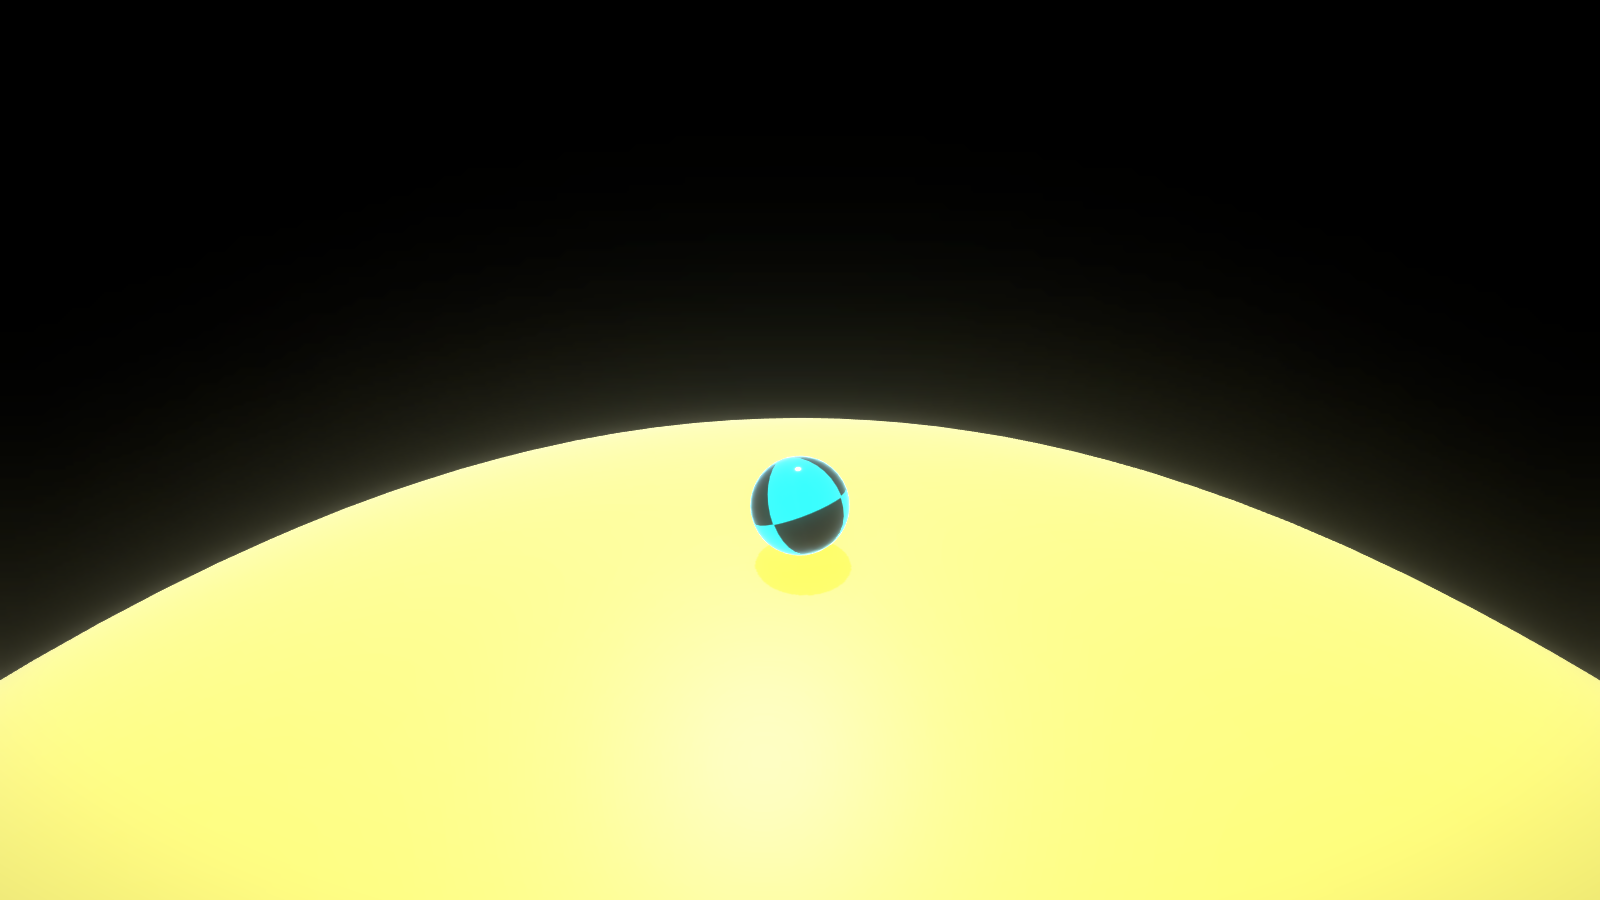
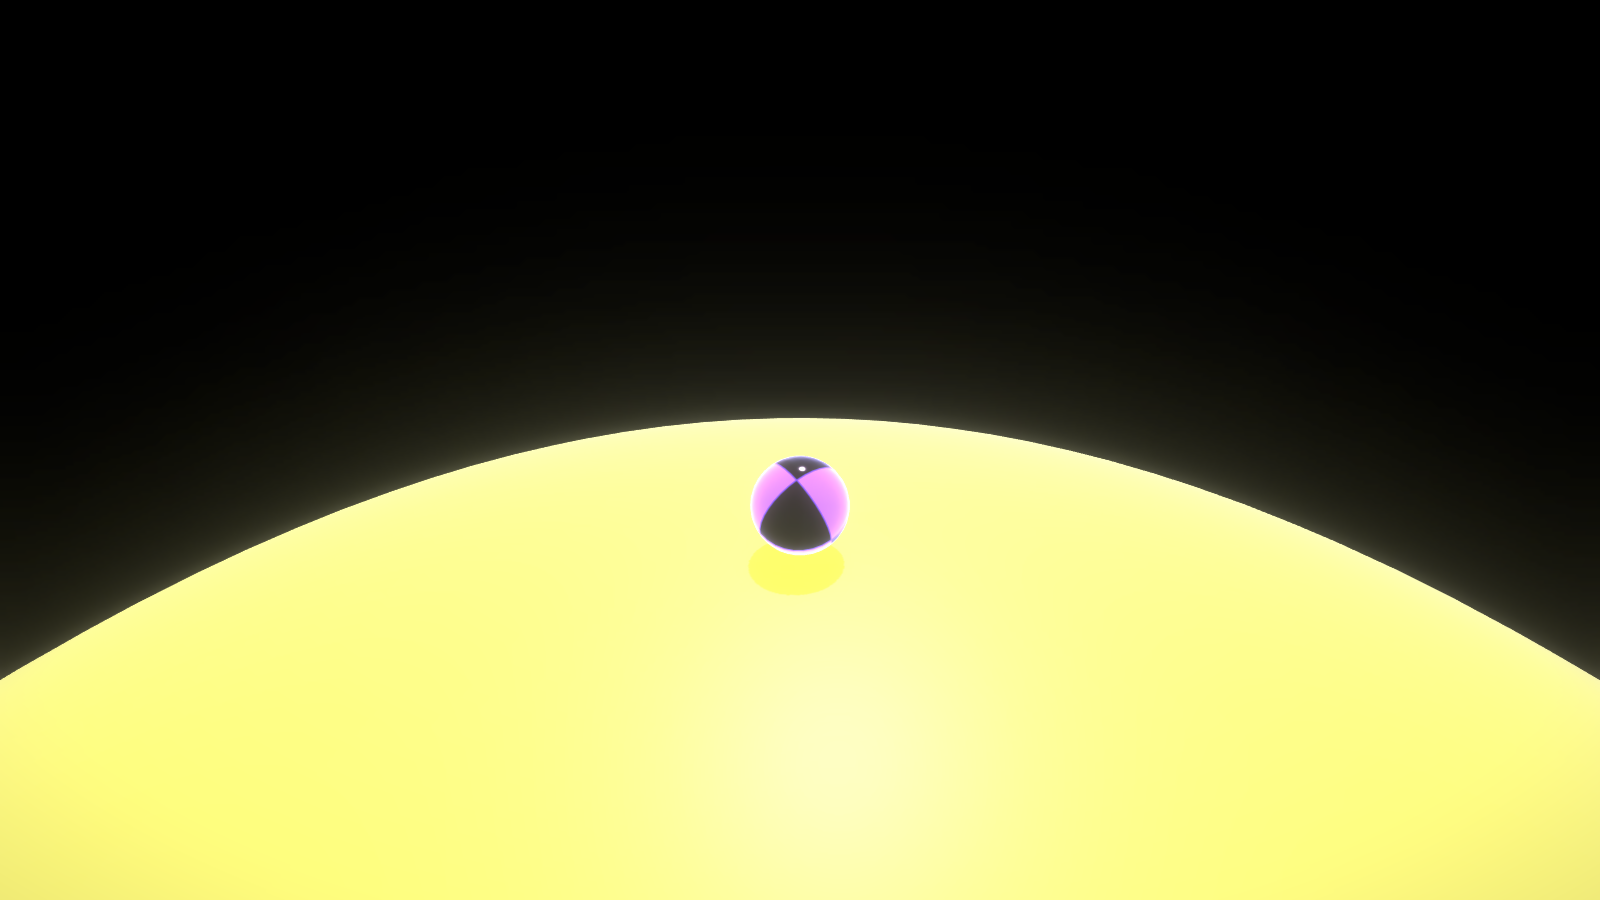
README screenshots for the new world 1, plus acid pool and mortar shots
Re-rendered every screenshot on world 1's new seed and added an acid
pool and a mortar firing (Mortar.PreviewShot poses a bomb mid-flight
with its marker for still renders).

Changed region(s): [[0.4688, 0.4978, 0.5312, 0.6533]]

diff --git a/Assets/Editor/SphereDescentSetup.cs b/Assets/Editor/SphereDescentSetup.cs
@@ -1083,6 +1083,42 @@ namespace SphereDescent.EditorTools
                 }
             }
 
+            // An acid pool, rolling onto its bridge.
+            if (layout.AcidPools.Count > 0)
+            {
+                var p = layout.AcidPools[0];
+                var grid = layout.Grids[p.Shell];
+                Vector3 c = grid.CellCenters[p.Cell];
+                var e = grid.Edges[grid.EdgeBetween(p.From, p.Cell)];
+                Vector3 door = (e.P0 + e.P1).normalized;
+                level.SetBeamSection(p.Section);
+                GameView("acid_pool", p.Shell, Vector3.Slerp(door, c, 0.3f), c, orbit.pitch + 8f);
+            }
+
+            // A mortar on its wall, a bomb coming down where the ball is heading and the marker where it'll land.
+            if (layout.Mortars.Count > 0)
+            {
+                var m = layout.Mortars[0];
+                var grid = layout.Grids[m.Shell];
+                var route = Route(m.Section);
+                Vector3 c = grid.CellCenters[m.Cell];
+                var e = grid.Edges[grid.EdgeBetween(route[m.RouteIndex - 1], m.Cell)];
+                Vector3 door = (e.P0 + e.P1).normalized;
+                Mortar mortar = null;
+                foreach (var mo in level.GetComponentsInChildren<Mortar>())
+                    if (mortar == null || Vector3.Angle(mo.transform.position, m.Mount) < Vector3.Angle(mortar.transform.position, m.Mount)) mortar = mo;
+                Vector3 ballDir = Vector3.Slerp(door, c, 0.2f).normalized;
+                float r = Ground(m.Shell, ballDir);
+                Vector3 ballPos = ballDir * (r + 0.5f);
+                Vector3 landing = Vector3.Slerp(door, c, 0.6f).normalized;
+                mortar.PreviewShot(landing * Ground(m.Shell, landing), 0.75f);
+                Vector3 back = Vector3.ProjectOnPlane(door - c, ballDir).normalized;
+                Vector3 mortarEye = ballPos + back * 8f + ballDir * 4.5f;
+                Vector3 look = (landing * r + mortar.transform.position) * 0.5f;
+                level.SetBeamSection(m.Section);
+                Render("mortar", ballPos, mortarEye, Quaternion.LookRotation(look - mortarEye, ballDir), m.Shell);
+            }
+
             // The same corridor as the gameplay shot, in the Deep Sea style.
             {
                 var deepSea = VisualStyle.DeepSea();

diff --git a/Assets/Scripts/Gameplay/MortarBomb.cs b/Assets/Scripts/Gameplay/MortarBomb.cs
@@ -19,7 +19,7 @@ namespace SphereDescent
         float markerIntensity;
 
         /// <param name="ground">The ground's normal where it will land, so the marker lies flat on a slope.</param>
-        public static void Launch(Mortar mortar, Vector3 from, Vector3 to, Vector3 ground)
+        public static MortarBomb Launch(Mortar mortar, Vector3 from, Vector3 to, Vector3 ground)
         {
             var go = new GameObject("Mortar Bomb");
             go.transform.SetParent(mortar.bombParent, true);
@@ -41,7 +41,11 @@ namespace SphereDescent
             bomb.marker = Piece(mortar.bombParent, "Bomb Marker", bomb.markerMesh, bomb.markerMat);
             bomb.marker.SetPositionAndRotation(Vector3.zero, Quaternion.identity);
             bomb.Tick(0f);
+            return bomb;
         }
+
+        /// <summary>Moves the bomb on by <paramref name="seconds"/> of its flight, for still renders.</summary>
+        public void Advance(float seconds) => Tick(seconds);
 
         /// <summary>
         /// A disc of <paramref name="radius"/> around <paramref name="center"/>, each of its points dropped onto

diff --git a/Assets/Scripts/Gameplay/Mortar.cs b/Assets/Scripts/Gameplay/Mortar.cs
@@ -105,6 +105,18 @@ namespace SphereDescent
             return nearest < float.MaxValue;
         }
 
+        /// <summary>
+        /// For still renders outside Play mode: aims at <paramref name="target"/> and leaves a bomb
+        /// <paramref name="progress"/> (0-1) of the way along its flight there, with its marker on the ground.
+        /// </summary>
+        public void PreviewShot(Vector3 target, float progress)
+        {
+            Vector3 ground = Ground(target);
+            Vector3 flat = Vector3.ProjectOnPlane(ground - turret.position, transform.up);
+            turret.rotation = Quaternion.LookRotation(flat, transform.up);
+            MortarBomb.Launch(this, muzzle.position, ground, groundNormal).Advance(progress * flightTime);
+        }
+
         void Face(Vector3 target)
         {
             if (turret == null) return;

diff --git a/README.md b/README.md
@@ -45,6 +45,10 @@ Each world is a set of nested spheres: a surface shell, three smaller shells ins
 |---|---|
 | ![Cameras on poles above the walls, sweeping spotlights across the passage](Docs/screenshots/security_cameras.png) | ![A camera locked on and firing its laser at the ball](Docs/screenshots/camera_caught.png) |
 
+| An acid pool and its bridge | A mortar's bomb coming down on its marker |
+|---|---|
+| ![A narrow bridge across a pit of glowing green acid](Docs/screenshots/acid_pool.png) | ![A mortar gripping a wall, its bomb falling toward a red circle on the ground](Docs/screenshots/mortar.png) |
+
 To help you find your way, each sphere is split into 12 zones, each with its own neon color and line pattern: square grid, diagonal grid, stripes or dots. The zones line up through every layer. A beam of light rises from where the section you're in ends, orange over a hole to drop through or cyan over a boost pad to climb from, so you can spot it over the maze walls. Glowing arrows on the floor every few cells point along the route, and whenever a world starts, you land on a new sphere, or you respawn, the camera turns to face the way on. The HUD shows the world, section, layer and zone you're in.
 
 ## Look
